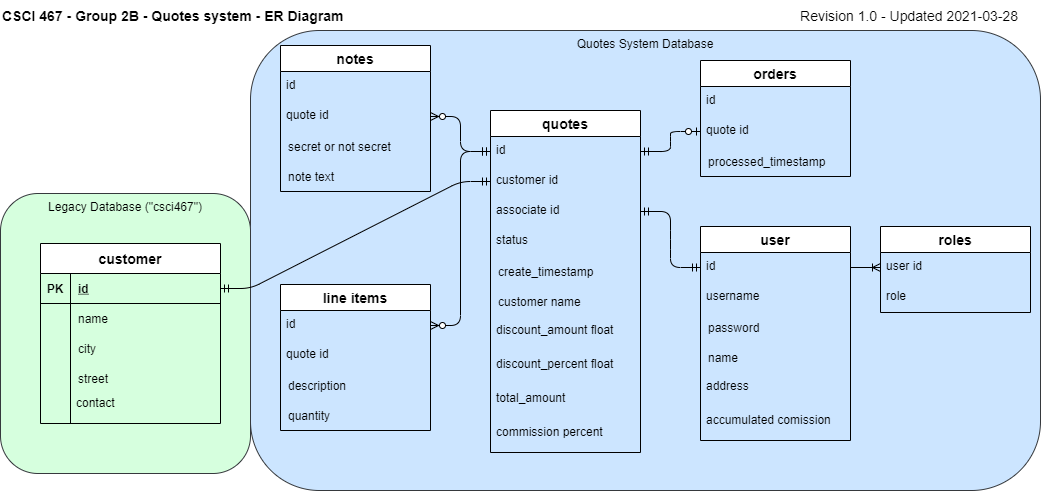
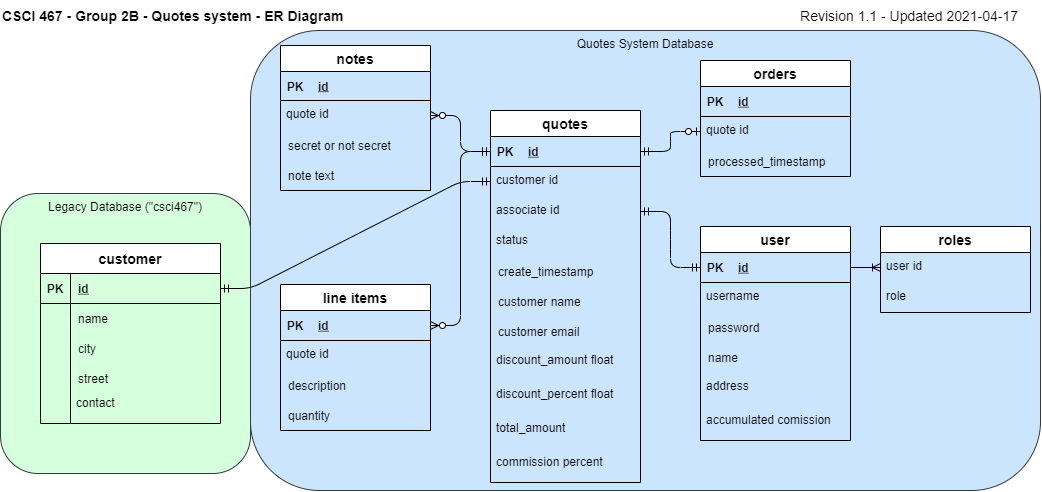
Add customer email to quotes table

diff --git a/laravel/database/migrations/2021_04_17_210238_create_quotes_table.php b/laravel/database/migrations/2021_04_17_210238_create_quotes_table.php
@@ -19,6 +19,7 @@ class CreateQuotesTable extends Migration
             $table->integer('associate_id');
             $table->enum('status', ["unfinalized", "finalized", "sanctioned", "processed"])->default('unfinalized');
             $table->string('customer_name');
+            $table->string('customer_email');
             $table->decimal('discount_amount', 9, 2)->default(0.0);
             $table->decimal('discount_percent', 2, 0)->default(0.0);
             $table->decimal('total_amount', 9, 2)->default(0.0);

diff --git a/sql/README.md b/sql/README.md
@@ -21,7 +21,7 @@ The application connects to two databases.
 
 > * user_id references user(id)
 
-**quote**(<ins>id</ins>, customer_id †, associate_id †, status, create_timestamp, customer_name, discount_amount, iscount_percent, total_amount, comission_percent)
+**quote**(<ins>id</ins>, customer_id †, associate_id †, status, create_timestamp, customer_name, customer_email, discount_amount, iscount_percent, total_amount, comission_percent)
 
 > * customer_id references a table attribute, *customer(id)*, in another database, *csci467*, so it is not  a foreign key in in the table schema, but the constraint will be managed by the application instead
 > * associate_id references user(id) 
@@ -86,6 +86,7 @@ The application connects to two databases.
 | status              | ENUM          | ("unsanctioned", "sanctioned", "processed")  | sanctioned  | quote status                                       |
 | create_timestamp    | TIMESTAMP     | unix time                                    | 1617540140  | time quote was created                             |
 | customer_name       | VARCHAR(255)  | words                                        | Asus Tech   | customer(name)                                     |
+| customer_email      | VARCHAR(255)  | email                                        | me@ex.com   | customer email                                     |
 | discount_amount     | DECIMAL(9,2)  | 0.00 to 9,999,999.99                         | 25.00       | dollar amount to subtract from the quote subtotal  |
 | discount_percent    | DECIMAL(2,0)  | 00 to 99                                     | 10          | percent to remove from the subtotal                |
 | total_amount        | DECIMAL(9,2)  | 0.00 to 9,999,999.99                         | 1,500.00    | running total of all items                         |
